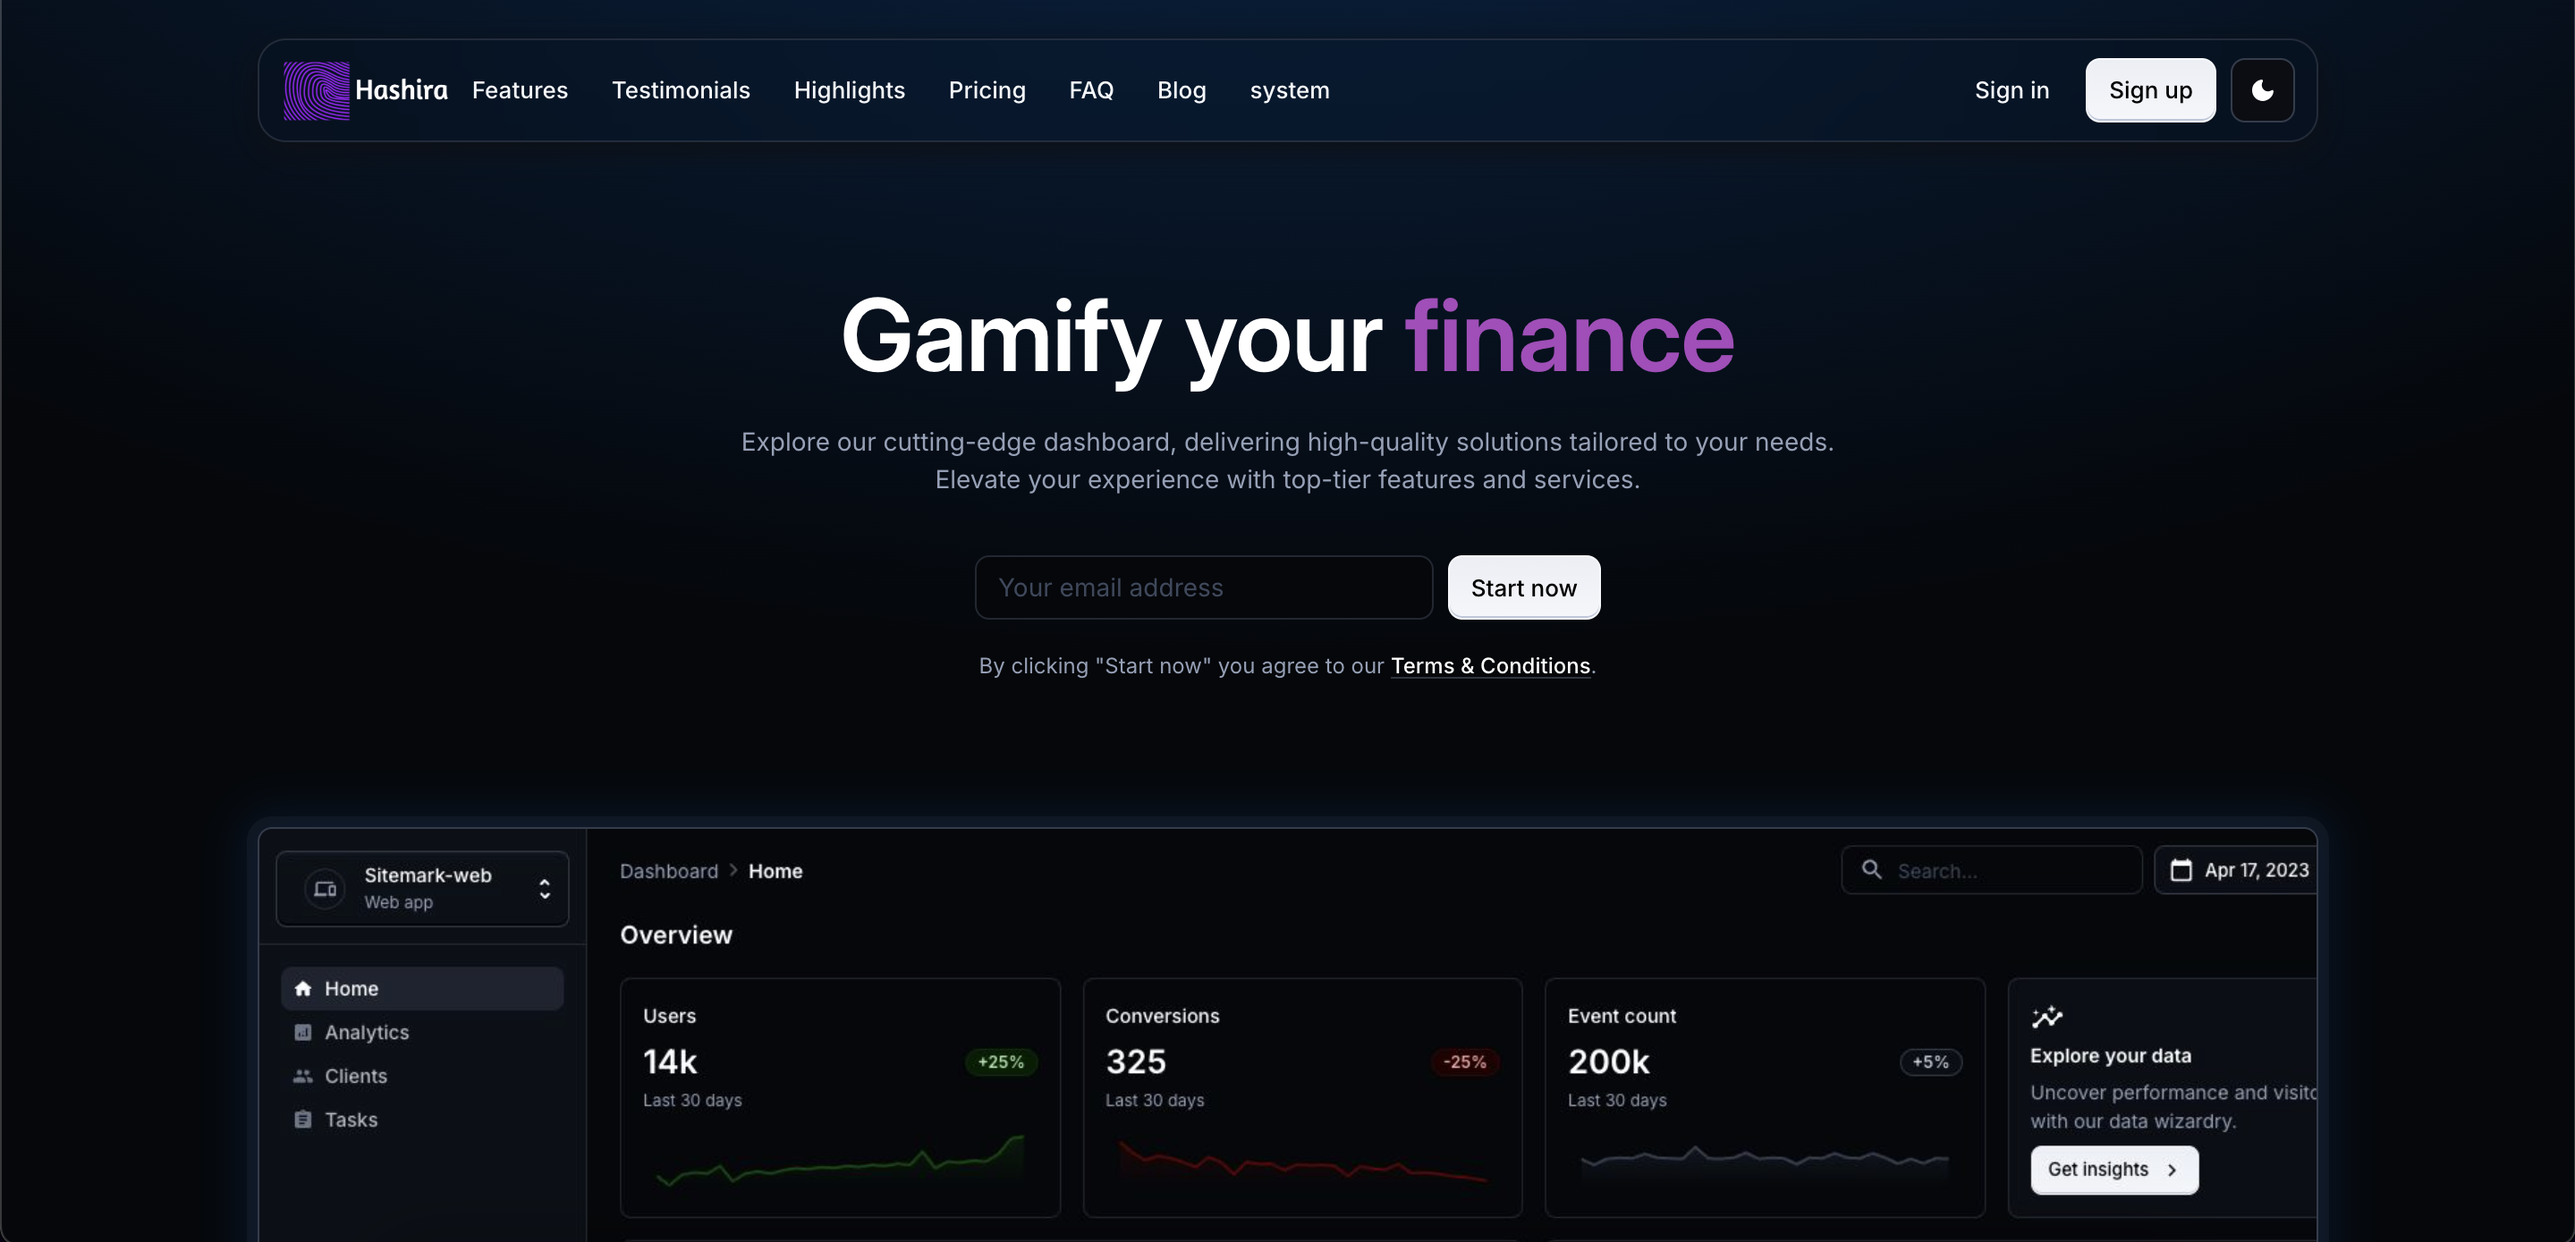
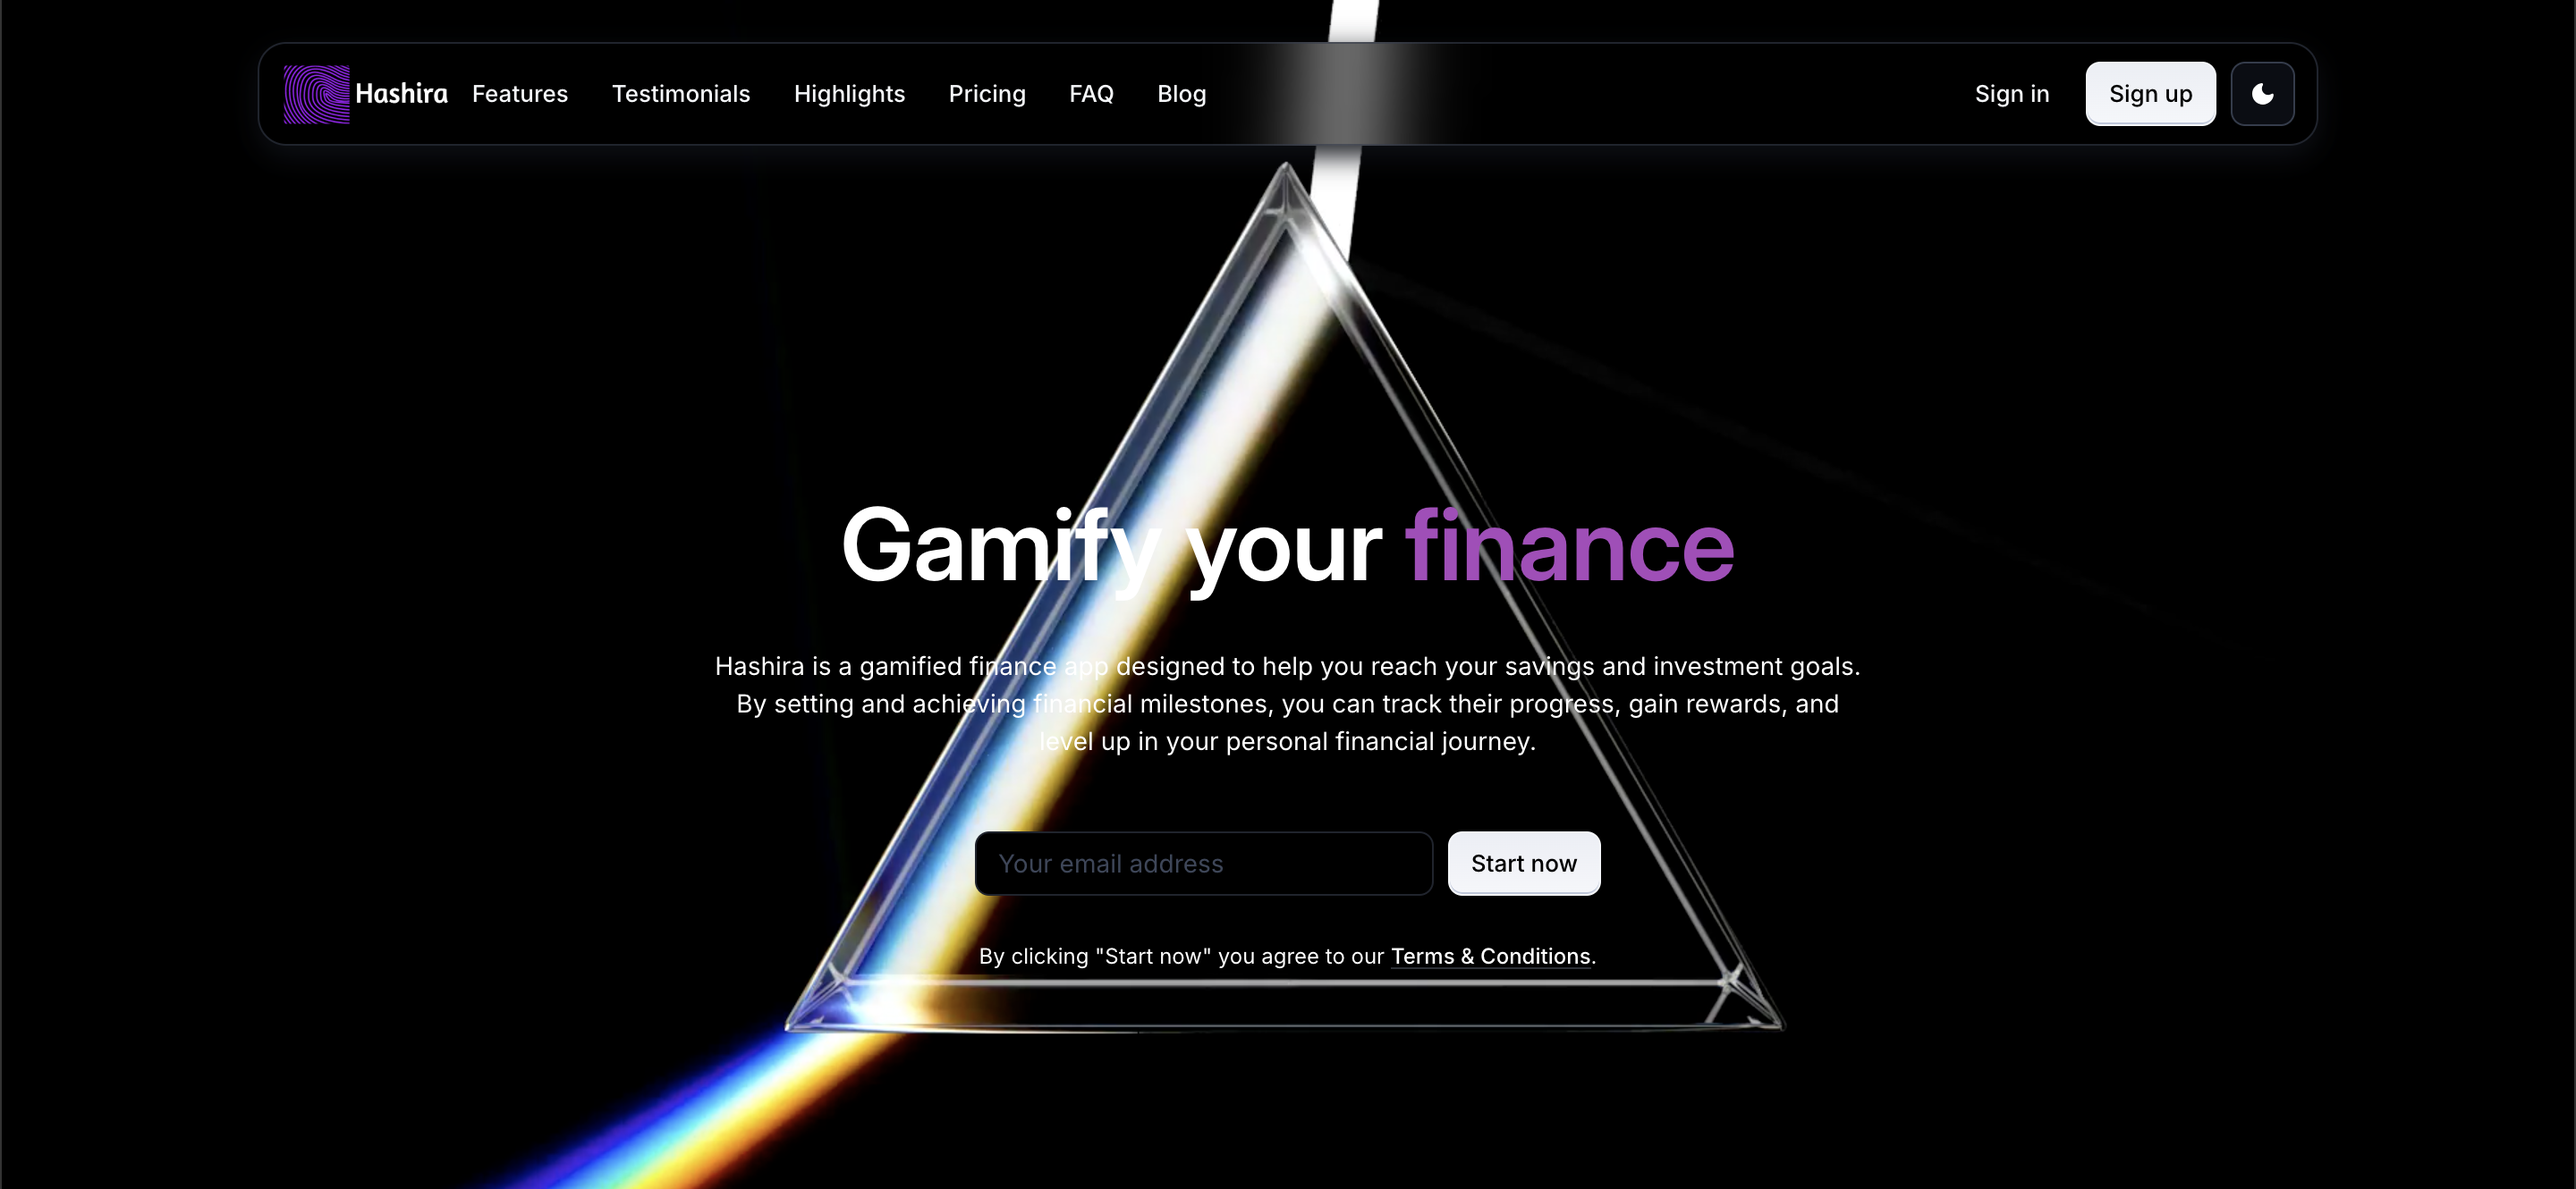
updated homepage animation updated ReadMe image

diff --git a/src/components/Hero.tsx b/src/components/Hero.tsx
@@ -8,6 +8,7 @@ import Stack from '@mui/material/Stack';
 import TextField from '@mui/material/TextField';
 import Typography from '@mui/material/Typography';
 import { CardMedia } from '@mui/material';
+import { useRef, useState } from 'react';
 
 import { visuallyHidden } from '@mui/utils';
 import { styled } from '@mui/material/styles';
@@ -37,7 +38,19 @@ const StyledBox = styled('div')(({ theme }) => ({
   }),
 }));
 
+
 export default function Hero() {
+
+  const videoRef = useRef<HTMLVideoElement | null>(null);
+  const [playbackSpeed, setPlaybackSpeed] = useState(0.3);
+  const homeVideo = require("../assets/videos/Prism.mov")
+
+  const setPlayBack = () => {
+    if (videoRef.current) { // Ensure videoRef.current is not null
+      videoRef.current.playbackRate = 0.5;
+    }
+  };
+
   return (
     <Box
       id="hero"
@@ -51,6 +64,7 @@ export default function Hero() {
           backgroundImage:
             'radial-gradient(ellipse 80% 50% at 50% -20%, hsl(210, 100%, 16%), transparent)',
         }),
+        height: "105vh"
       })}
     >
       <Container
@@ -62,11 +76,28 @@ export default function Hero() {
           pb: { xs: 8, sm: 12 },
         }}
       >
-        
+        <video 
+  ref={videoRef} 
+  src={homeVideo} 
+  style={{
+    position: "absolute",
+    top: "0",
+    left: "50%",
+    transform: "translateX(-50%)",
+    objectFit: "cover",
+    zIndex: "1",
+    minHeight: "100%",
+    width: "100%",
+    height: "100vh",
+  }} 
+  autoPlay muted loop
+  onCanPlay={() => setPlayBack()}
+/>
+
         <Stack
-          spacing={2}
+          spacing={3}
           useFlexGap
-          sx={{ alignItems: 'center', width: { xs: '100%', sm: '70%' } }}
+          sx={{ alignItems: 'center', width: { xs: '100%', sm: '70%' }, zIndex:"10", paddingTop: "10%", height: "100vh" }}
         >
           <Typography
             variant="h1"
@@ -74,6 +105,7 @@ export default function Hero() {
               display: 'flex',
               flexDirection: { xs: 'column', sm: 'row' },
               alignItems: 'center',
+              color: "white",
               fontSize: 'clamp(3rem, 10vw, 3.5rem)',
             }}
           >
@@ -83,10 +115,7 @@ export default function Hero() {
               variant="h1"
               sx={(theme) => ({
                 fontSize: 'inherit',
-                color: 'secondary.light',
-                ...theme.applyStyles('dark', {
-                  color: 'secondary.dark',
-                }),
+                color: 'secondary.dark',
               })}
             >
               finance
@@ -95,13 +124,13 @@ export default function Hero() {
           <Typography
             sx={{
               textAlign: 'center',
-              color: 'text.secondary',
               width: { sm: '100%', md: '80%' },
+              color: "white"
             }}
           >
-            Explore our cutting-edge dashboard, delivering high-quality solutions
-            tailored to your needs. Elevate your experience with top-tier features
-            and services.
+            Hashira is a gamified finance app designed to help you reach your 
+            savings and investment goals. By setting and achieving financial milestones, 
+            you can track their progress, gain rewards, and level up in your personal financial journey.
           </Typography>
           <Stack
             direction={{ xs: 'column', sm: 'row' }}
@@ -138,17 +167,16 @@ export default function Hero() {
           </Stack>
           <Typography
             variant="caption"
-            color="text.secondary"
+            color="white"
             sx={{ textAlign: 'center' }}
           >
             By clicking &quot;Start now&quot; you agree to our&nbsp;
-            <Link href="#" color="primary">
+            <Link href="#" color="white">
               Terms & Conditions
             </Link>
             .
           </Typography>
         </Stack>
-        <StyledBox id="image" />
       </Container>
     </Box>
   );

diff --git a/src/components/AppAppBar.tsx b/src/components/AppAppBar.tsx
@@ -76,9 +76,6 @@ export default function AppAppBar() {
               <Button variant="text" color="info" size="small" sx={{ minWidth: 0 }}>
                 Blog
               </Button>
-              <Button variant="text" color="info" size="small" sx={{ minWidth: 0 }}>
-                {mode}
-              </Button>
             </Box>
           </Box>
           <Box

diff --git a/src/theme/themePrimitives.ts b/src/theme/themePrimitives.ts
@@ -323,7 +323,7 @@ export const colorSchemes = {
       },
       divider: alpha(gray[700], 0.6),
       background: {
-        default: gray[900],
+        default: 'black',  // Changed from 'gray[900]'
         paper: 'hsl(220, 30%, 7%)',
       },
       text: {

diff --git a/README.md b/README.md
@@ -48,6 +48,7 @@
     <li>Node.js (for frontend development)</li>
     <li>Python (for backend development)</li>
     <li>Django (for backend development)</li>
+    <li>MySQL (backend db)</li>
 </ul>
 
 <h3>Frontend Setup (React)</h3>
